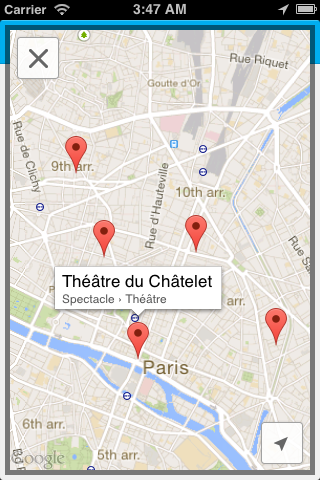
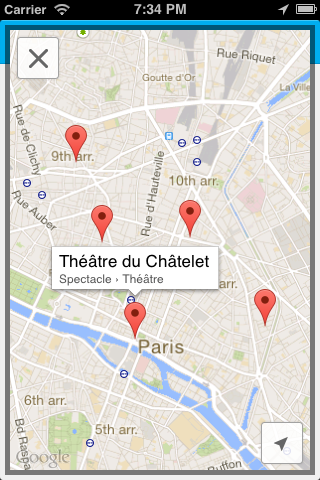
showMarkers & showPath

diff --git a/www/googlemaps.js b/www/googlemaps.js
@@ -7,9 +7,12 @@
 
 var GoogleMaps = {
     markerTappedCallback: null,
-    addMarkers: function (markers, tapp_calback, callback) {
+    showMarkers: function (markers, tapp_calback, callback) {
         GoogleMaps.markerTappedCallback = tapp_calback;
-        cordova.exec(callback, function (err) { console.log(err); }, "GoogleMaps", "addMarkers", [markers]);
+        cordova.exec(callback, function (err) { console.log(err); }, "GoogleMaps", "showMarkers", [markers]);
+    },
+    showPath: function (markers, enc_path, callback) {
+        cordova.exec(callback, function (err) { console.log(err); }, "GoogleMaps", "showPath", [markers, enc_path]);
     },
     showPanorama: function (coord, opts, callback) {
         cordova.exec(callback, function (err) { console.log(err); }, "GoogleMaps", "showPanorama", [coord, opts]);

diff --git a/src/ios/GoogleMapsViewController.m b/src/ios/GoogleMapsViewController.m
@@ -61,6 +61,10 @@
     [button addTarget:self action:@selector(close :) forControlEvents:UIControlEventTouchUpInside];
     [GoogleMapsView addSubview:button];
     
+    if ([self hasPath]) {
+        [self addPath];
+    }
+    
     if ([self hasMarkers]) {
         [self addMarkers];
         [self autoZoom];
@@ -91,6 +95,28 @@
     command = cdvCommand;
 }
 
+- (void)setPath:(NSString *)encPath
+{
+    path_ = encPath;
+}
+
+- (BOOL)hasPath
+{
+    if (path_ != nil && path_.length > 0) {
+        return TRUE;
+    }
+    return FALSE;
+}
+
+- (void)addPath
+{
+    GMSPath *path = [GMSPath pathFromEncodedPath:path_];
+    GMSPolyline *polyline = [GMSPolyline polylineWithPath:path];
+    polyline.strokeColor = [UIColor blueColor];
+    polyline.strokeWidth = 8.f;
+    polyline.map = GoogleMapsView;
+}
+
 - (void)setMarkers:(NSMutableArray *)markersArray
 {
     markers_ = markersArray;
@@ -106,19 +132,23 @@
 
 - (void)addMarkers
 {
+    GMSMarker *marker;
     for (int a = 0; a<markers_.count; a++)
     {
         NSDictionary *markerInfo = [markers_ objectAtIndex:a];
-        [self addMarker:markerInfo
-                   name:[markerInfo objectForKey:@"title"]
-                snippet:[markerInfo objectForKey:@"subtitle"]
-               latitude:[[markerInfo objectForKey:@"latitude"] doubleValue]
-              longitude:[[markerInfo objectForKey:@"longitude"] doubleValue]];
+        marker = [self addMarker:markerInfo
+                            name:[markerInfo objectForKey:@"title"]
+                         snippet:[markerInfo objectForKey:@"subtitle"]
+                        latitude:[[markerInfo objectForKey:@"latitude"] doubleValue]
+                       longitude:[[markerInfo objectForKey:@"longitude"] doubleValue]];
+    }
+    if ([self hasPath] && marker != nil) {
+        GoogleMapsView.selectedMarker = marker;
     }
     
 }
 
-- (void)addMarker:(id)markerInfo name:(NSString *)name snippet:(NSString *)snippet latitude:(double)latitude longitude:(double)longitude
+- (GMSMarker *)addMarker:(id)markerInfo name:(NSString *)name snippet:(NSString *)snippet latitude:(double)latitude longitude:(double)longitude
 {
     GMSMarker *marker = [[GMSMarker alloc] init];
     marker.userData = markerInfo;
@@ -161,6 +191,7 @@
         bounds_ = [[GMSCoordinateBounds alloc] initWithCoordinate:marker.position coordinate:marker.position];
     }
     bounds_ = [bounds_ includingCoordinate:marker.position];
+    return marker;
 }
 
 - (void)autoZoom
@@ -177,7 +208,16 @@
 
 #pragma mark - GMSMapViewDelegate
 
+- (void)mapView:(GMSMapView *)mapView didTapInfoWindowOfMarker:(GMSMarker *)marker {
+    //NSLog(@"You tapped the InfoWindow Of Marker [id:%@]", [marker.userData objectForKey:@"id"]);
+    if ([self hasPath] == FALSE) {
+        NSString *js = [NSString stringWithFormat:@"GoogleMaps.markerTapped('%@');", [marker.userData objectForKey:@"id"]];
+        [plugin writeJavascript:js];
+    }
+}
+
 - (BOOL)mapView:(GMSMapView *)mapView didTapMarker:(GMSMarker *)marker {
+    //NSLog(@"You tapped the Marker [id:%@]", [marker.userData objectForKey:@"id"]);
     [CATransaction begin];
     [CATransaction setAnimationDuration:2.f];
     
@@ -188,14 +228,9 @@
     [mapView animateToCameraPosition:camera];
     [CATransaction commit];
     
-    
     if (mapView.selectedMarker != marker) {
         return NO;
-    } else {
-        NSString *js = [NSString stringWithFormat:@"GoogleMaps.markerTapped('%@');", [marker.userData objectForKey:@"id"]];
-        [plugin writeJavascript:js];
     }
-    
     return YES;
 }
 

diff --git a/src/ios/GoogleMaps.m b/src/ios/GoogleMaps.m
@@ -13,7 +13,7 @@
 
 @implementation GoogleMaps
 
-- (void)addMarkers:(CDVInvokedUrlCommand*)command
+- (void)showMarkers:(CDVInvokedUrlCommand*)command
 {
     NSMutableArray* markers = [command.arguments objectAtIndex:0];
     if (markers != nil && markers.count > 0) {
@@ -22,6 +22,32 @@
             [googleMapsViewController setPlugin:self];
             [googleMapsViewController setCommand:command];
             [googleMapsViewController setMarkers:markers];
+            googleMapsViewController.view.alpha = 0.f;
+            [UIView beginAnimations:nil context:nil];
+            [UIView setAnimationDuration:.3];
+            googleMapsViewController.view.alpha = 1.f;
+            [[[self viewController] view] addSubview:googleMapsViewController.view];
+            [googleMapsViewController.view setFrame:self.webView.frame];
+            [UIView commitAnimations];
+        });
+    } else {
+        CDVPluginResult* pluginResult = [CDVPluginResult resultWithStatus:CDVCommandStatus_ERROR];
+        [self.commandDelegate sendPluginResult:pluginResult callbackId:command.callbackId];
+    }
+}
+
+- (void)showPath:(CDVInvokedUrlCommand*)command
+{
+    NSMutableArray* markers = [command.arguments objectAtIndex:0];
+    NSString* encPath = [command.arguments objectAtIndex:1];
+    
+    if (markers != nil && markers.count > 0 && encPath != nil) {
+        dispatch_async(dispatch_get_main_queue(), ^{
+            googleMapsViewController = [[GoogleMapsViewController alloc] initWithNibName:@"GoogleMapsViewController" bundle:nil];
+            [googleMapsViewController setPlugin:self];
+            [googleMapsViewController setCommand:command];
+            [googleMapsViewController setMarkers:markers];
+            [googleMapsViewController setPath:encPath];
             googleMapsViewController.view.alpha = 0.f;
             [UIView beginAnimations:nil context:nil];
             [UIView setAnimationDuration:.3];

diff --git a/src/ios/GoogleMapsViewController.h b/src/ios/GoogleMapsViewController.h
@@ -10,6 +10,7 @@
 #import <Cordova/CDV.h>
 
 @interface GoogleMapsViewController : UIViewController <GMSMapViewDelegate> {
+    NSString *path_;
     NSMutableArray *markers_;
     GMSCoordinateBounds *bounds_;
     CDVPlugin *plugin;
@@ -18,12 +19,18 @@
 }
 
 - (void)close:(id)sender;
+
 - (void)setPlugin:(CDVPlugin *)cdvPlugin;
 - (void)setCommand:(CDVInvokedUrlCommand *)cdvCommand;
+
+- (void)setPath:(NSString *)encPath;
+- (BOOL)hasPath;
+- (void)addPath;
+
 - (void)setMarkers:(NSMutableArray *)markers;
 - (BOOL)hasMarkers;
 - (void)addMarkers;
-- (void)addMarker:(id)ref name:(NSString *)name snippet:(NSString *)snippet latitude:(double)latitude longitude:(double)longitude;
+- (GMSMarker *)addMarker:(id)ref name:(NSString *)name snippet:(NSString *)snippet latitude:(double)latitude longitude:(double)longitude;
 - (void)autoZoom;
 
 @end

diff --git a/src/ios/GoogleMaps.h b/src/ios/GoogleMaps.h
@@ -16,7 +16,8 @@
     GooglePanoramaViewController* googlePanoramaViewController;
 }
 
-- (void)addMarkers:(CDVInvokedUrlCommand*)command;
+- (void)showMarkers:(CDVInvokedUrlCommand*)command;
+- (void)showPath:(CDVInvokedUrlCommand*)command;
 - (void)showPanorama:(CDVInvokedUrlCommand*)command;
 - (void)close:(CDVInvokedUrlCommand*)command;
 

diff --git a/README.md b/README.md
@@ -13,7 +13,7 @@ https://developers.google.com/maps/documentation/ios/start
 
 ## Using the plugin ##
 
-### GoogleMaps.addMarkers ###
+### GoogleMaps.showMarkers ###
 ![screenshot](https://raw.github.com/pebois/phonegap-plugin-GoogleMaps/master/sample1.png)
 ```
 var markers = [{id:"105",
@@ -42,7 +42,7 @@ var markers = [{id:"105",
                 latitude:48.8774069,
                 longitude:2.3373855}];
 
-GoogleMaps.addMarkers(markers, function (marker) {
+GoogleMaps.showMarkers(markers, function (marker) {
     // Tapped marker callback
     console.log("Marker [id:"+marker+"] tapped !");
     GoogleMaps.close();
@@ -51,6 +51,19 @@ GoogleMaps.addMarkers(markers, function (marker) {
     console.log(msg);
   }
 );
+```
+
+### GoogleMaps.showPath ###
+![screenshot](https://raw.github.com/pebois/phonegap-plugin-GoogleMaps/master/sample3.png)
+```
+var markers = [{subtitle:"Saint-Sulpice, 75006 Paris, France", title:"Départ", latitude:48.8516, longitude:2.33114, color:"yellow"},
+               {subtitle:"Rue de Rivoli, 75001 Paris, France", title:"Arrivée", latitude:48.8633, longitude:2.33346, color:"yellow"}];
+var encPath = "oidiHshfMmAtFGFIDg@e@wA~Bg@Q_Ag@}EiCWScA]{@[aBeAoCiBoC{BsBaBoBuACEACAKBQIGc@|B]Nc@VCAmAk@k@WiB{@KEQFWIYMmCuASIQFKNMHQBOAOIKMOk@G]_AqAU]m@[k@a@SSKb@_BdH";
+GoogleMaps.showPath(markers,
+                    encPath,
+                    function (msg) {
+                        console.log(msg);
+                    });
 ```
 
 ### GoogleMaps.showPanorama ###
